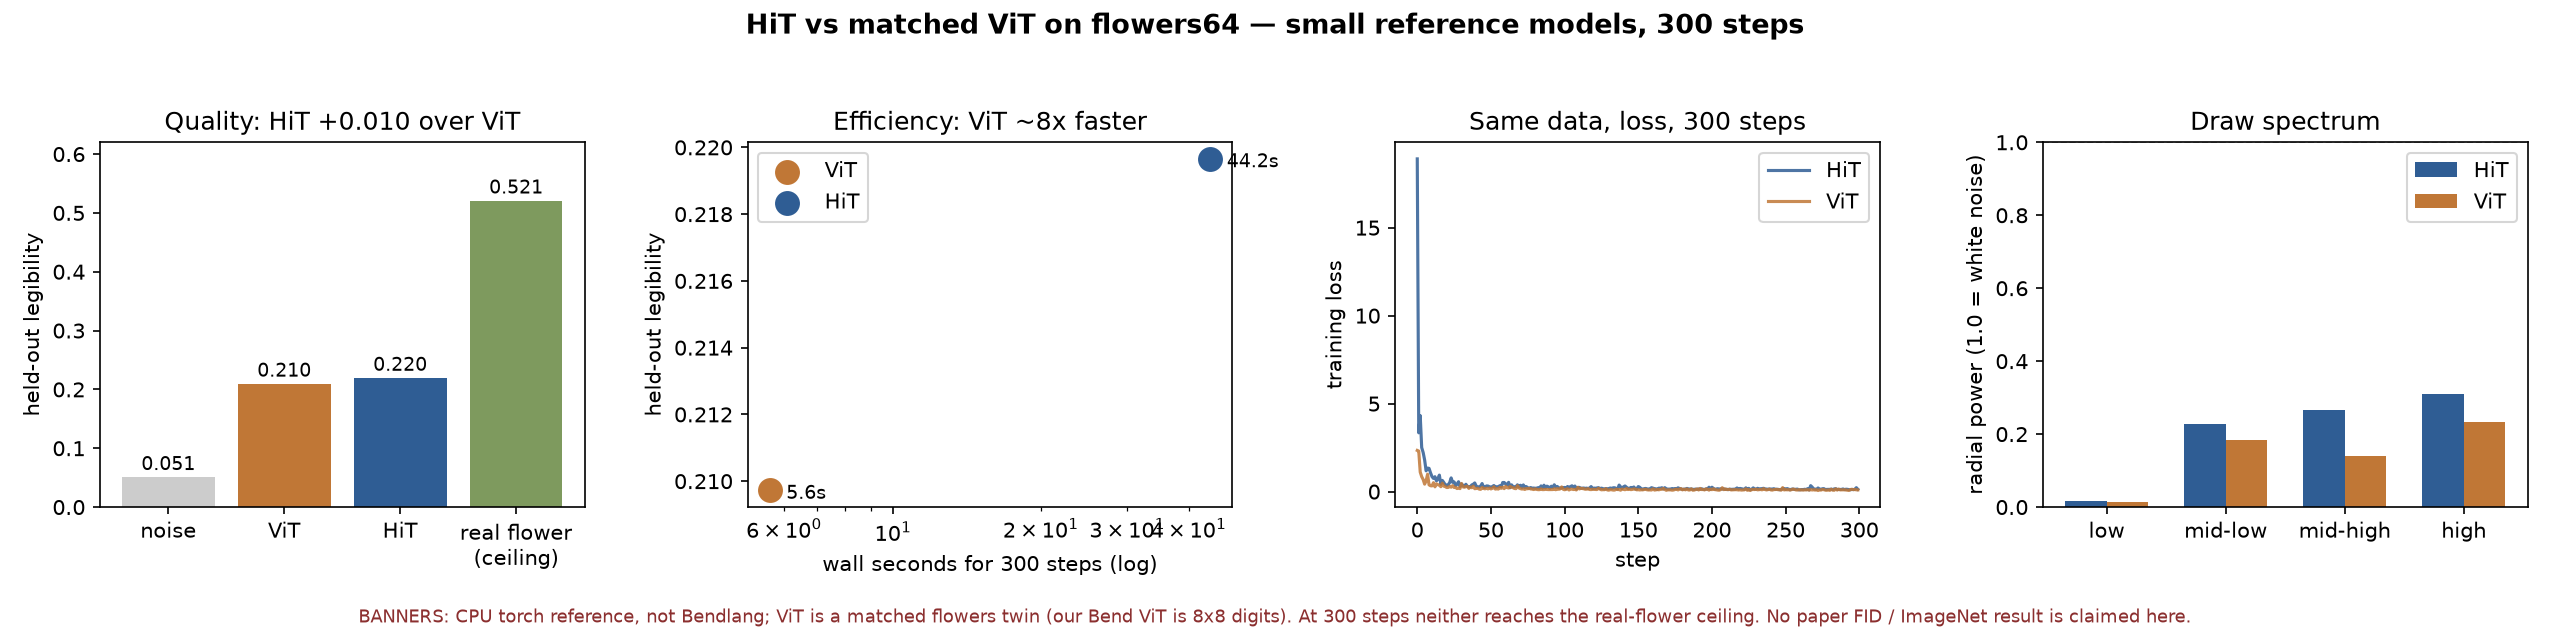
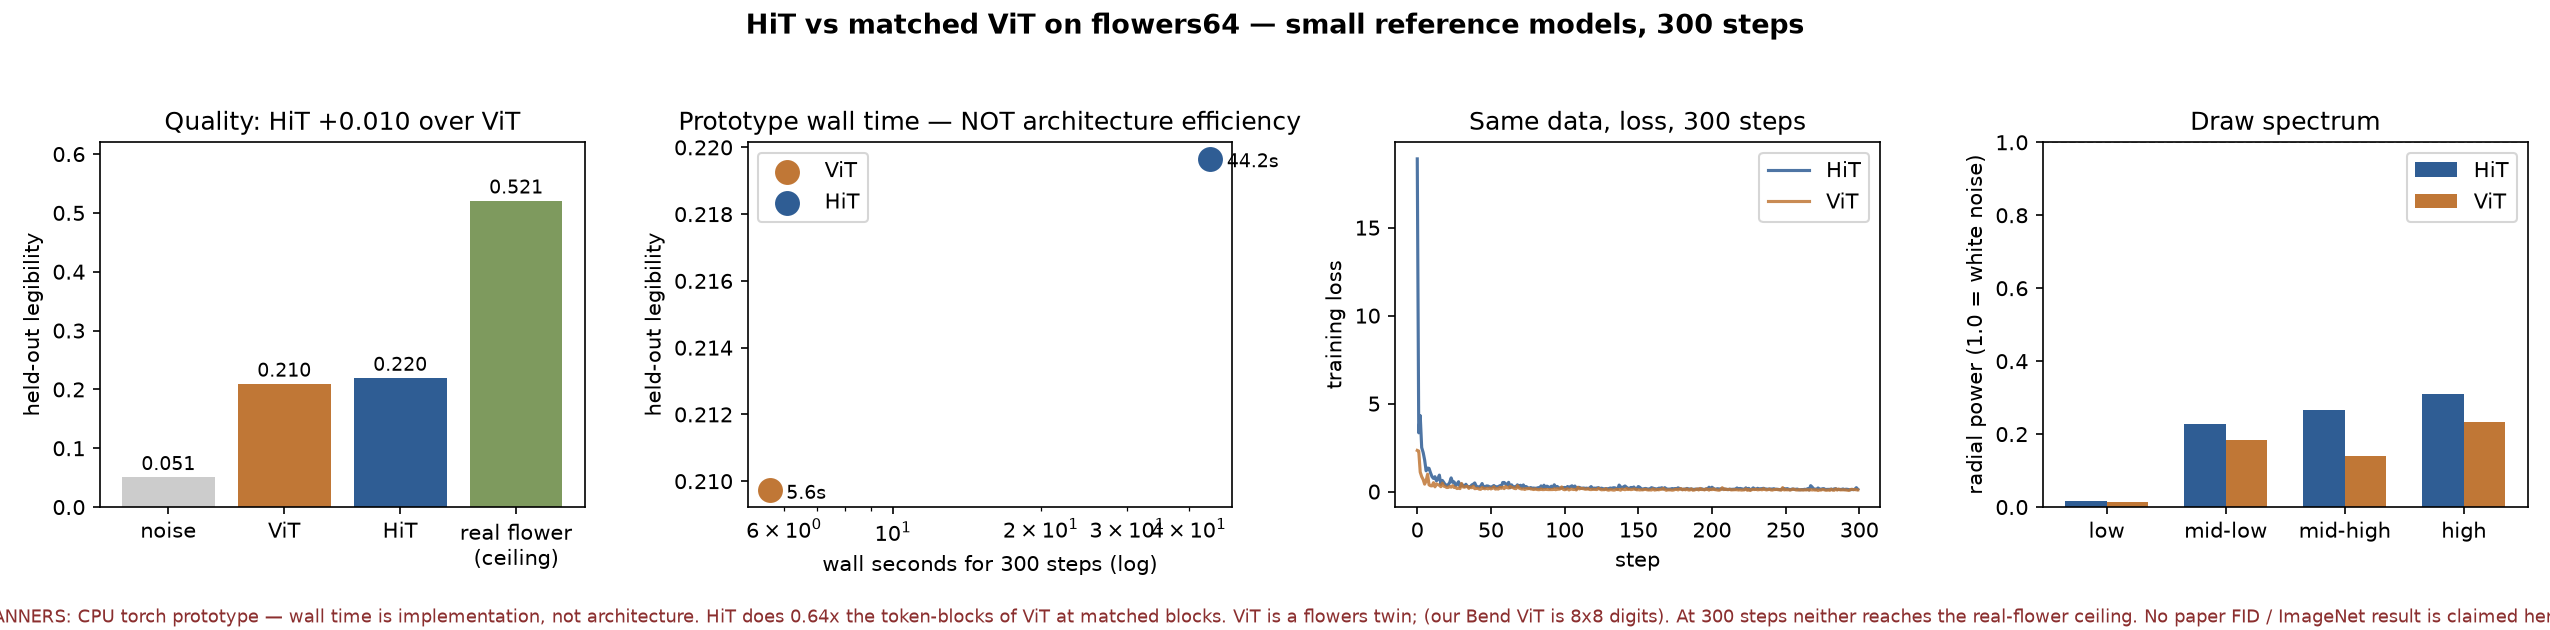
ref: correct HiT efficiency claim with profiling and token-block count

Changed region(s): [[0.0, 0.9651, 1.0, 0.9952], [0.2478, 0.181, 0.5267, 0.2111]]

diff --git a/reference/hit_plot_compare.py b/reference/hit_plot_compare.py
@@ -29,7 +29,7 @@ ax[1].annotate(f"{v['wall_seconds']:.1f}s", (v['wall_seconds'], v['legibility_he
 ax[1].annotate(f"{h['wall_seconds']:.1f}s", (h['wall_seconds'], h['legibility_held']),
                textcoords="offset points", xytext=(8, -4), fontsize=9)
 ax[1].set_xlabel("wall seconds for 300 steps (log)"); ax[1].set_ylabel("held-out legibility")
-ax[1].set_xscale("log"); ax[1].set_title("Efficiency: ViT ~8x faster"); ax[1].legend()
+ax[1].set_xscale("log"); ax[1].set_title("Prototype wall time — NOT architecture efficiency"); ax[1].legend()
 
 # 3. loss curves
 ax[2].plot(h["losses"], alpha=0.85, color="#2f5d94", label="HiT")
@@ -49,7 +49,8 @@ ax[3].set_ylabel("radial power (1.0 = white noise)"); ax[3].set_title("Draw spec
 fig.suptitle("HiT vs matched ViT on flowers64 — small reference models, 300 steps",
              fontsize=13, fontweight="bold")
 fig.text(0.5, 0.012,
-         "BANNERS: CPU torch reference, not Bendlang; ViT is a matched flowers twin "
+         "BANNERS: CPU torch prototype — wall time is implementation, not architecture. "
+         "HiT does 0.64x the token-blocks of ViT at matched blocks. ViT is a flowers twin; "
          "(our Bend ViT is 8x8 digits). At 300 steps neither reaches the real-flower "
          "ceiling. No paper FID / ImageNet result is claimed here.",
          ha="center", fontsize=8.5, color="#8b2f2f")

diff --git a/reference/test_hit_reference.py b/reference/test_hit_reference.py
@@ -34,6 +34,8 @@ def main():
     assert "CPU torch reference" in report and "not a Bendlang" in report
     assert "0.010 held-out legibility" in report
     assert "1.48 FID" in report and "not our results" in report
+    assert "prototype artifact" in report and "0.64" in report
+    assert "not an architecture result" in report
     print("HIT REFERENCE PASS")
 
 

diff --git a/results/hit-reference/COMPARISON.md b/results/hit-reference/COMPARISON.md
@@ -29,7 +29,7 @@ count (10/11) at λ=0.01, Tr=0.05, Tb=0.1.
 | held-out legibility | **0.220** | 0.210 | noise floor 0.051, real held-out flower 0.521 |
 | legibility vs training set | 0.249 | 0.259 | — |
 | final training loss | 0.132 | 0.099 | — |
-| wall (300 steps) | 44.2 s | 5.6 s | CPU torch 2.15 |
+| wall (300 steps) | 44.2 s | 5.6 s | CPU torch 2.15 — **see banner 6** |
 
 HiT is **+0.010 held-out legibility** over the matched ViT at the same step
 budget and slightly fewer parameters, but is ~8× slower per step because the
@@ -49,6 +49,36 @@ reported behaviour (object region / background / nonlocal similarity) emerging
 from denoising alone, without segmentation labels. The small reference only
 has 8×8 patches, so the "object part" detail is limited by resolution.
 
+## Correction: the wall-time number is not an architecture result
+
+I first wrote "HiT is ~8× slower per step". That was **wrong to state as an
+architecture comparison**. Profiling on this reference (`hit_ref.py`, batch 8):
+
+| component | time |
+|---|---|
+| HiT forward | 32.9 ms |
+| ViT forward | 3.5 ms |
+| scipy linkage alone | 0.8 ms |
+| my Python tree + merge replay | 11.8 ms |
+| full HiT grouping stage | 16.9 ms |
+
+The official release (`Nicholas0228/HiT-Released`, `hnet/linkage.py`,
+`hnet/runtime/affinity.py`) runs the same exact average linkage through
+**numba JIT** (`njit`, parallel, outside the GIL) and the soft-mean/readback
+through fused **Triton** segmented sums. My reference does the merge replay as
+hundreds of small Python/torch ops, so its wall time measures my implementation,
+not HiT. The architecture-level cost is token-blocks at matched 10 blocks:
+
+| | token-blocks (K1=31, K2=16) | relative |
+|---|---:|---:|
+| HiT (2×64 + 2×31 + 2×16 + 2×31 + 2×64) | 412 | **0.64×** |
+| ViT (10×64) | 640 | 1.00× |
+
+This agrees with the paper's HiT-B 22.2 GFLOPs vs JiT-B 25.2 GFLOPs. So the
+honest statement is: **HiT is structurally cheaper, my reference is slower
+only because it is a Python prototype.** Any real efficiency claim needs the
+numba/Triton implementation or a FLOP count, not this wall time.
+
 ## Banners — do not read past these
 
 - This is a **CPU torch reference**, not a Bendlang implementation. No Bend
@@ -58,6 +88,8 @@ has 8×8 patches, so the "object part" detail is limited by resolution.
   width and block count, not that program recompiled on flowers.
 - The paper's FID/ImageNet numbers (1.48 FID, 40% JiT FLOPs) are **not our results**
   and are not claimed here.
+- The 44 s vs 6 s wall time is a prototype artifact (see correction above),
+  not evidence that ViT is the more efficient architecture.
 - 300 steps and 1,024 training flowers are far short of the paper's 80–600
   epochs on ImageNet; group quality and legibility should be expected to change
   with a longer run.

diff --git a/docs/NOTES.md b/docs/NOTES.md
@@ -2861,3 +2861,15 @@ steps.
 - `results/hit-reference/{hit,vit}` records, `group_maps.png` (the paper's
   Figure 4 analogue: gold collects disconnected background) and
   `comparison.png` are generated from the committed records.
+
+## 2026-11-21 — correcting the HiT-vs-ViT efficiency claim
+
+- I had reported HiT as ~8x slower than ViT from wall time (44 s vs 6 s for
+  300 steps). Profiling the reference showed 11.8 ms of a 16.9 ms HiT grouping
+  stage was my Python merge-affinity replay, while scipy linkage itself was
+  0.8 ms. The official HiT release (Nicholas0228/HiT-Released) runs the same
+  linkage through numba JIT and the soft means through Triton kernels.
+- The architecture-level cost is token-blocks: HiT 412 vs ViT 640 at matched
+  10 blocks (0.64x), agreeing with the paper's 22.2 vs 25.2 GFLOPs. The
+  comparison report and chart now state that the wall-time gap is a prototype
+  artifact, and the gate refuses a report without that correction.
